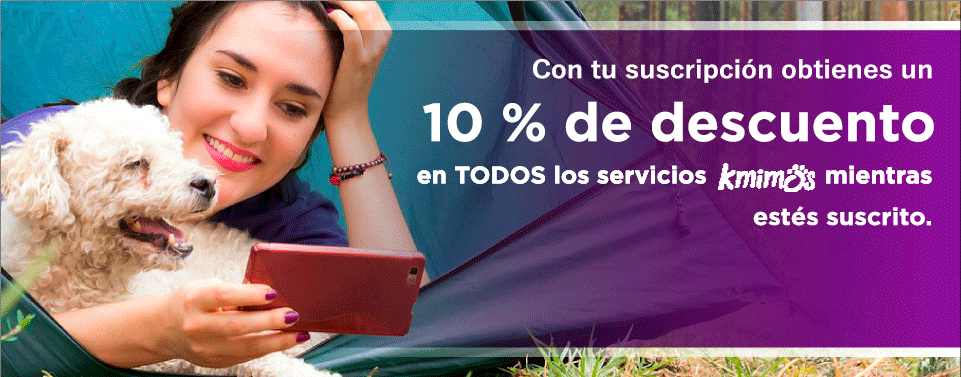
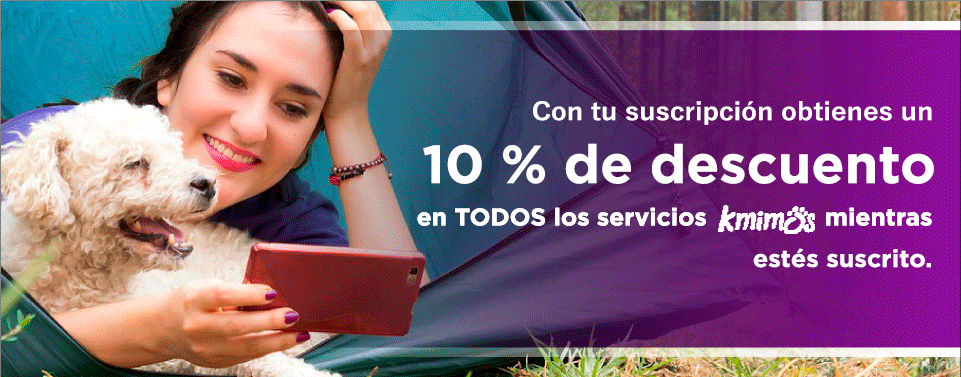
cambio de estilo footer email

Changed region(s): [[0.437, 0.2626, 0.999, 0.7294], [0.5307, 0.1459, 0.9677, 0.2334]]

diff --git a/wp-content/themes/kmibox/template/email/generales/footer.php b/wp-content/themes/kmibox/template/email/generales/footer.php
@@ -46,31 +46,20 @@
     					margin-top: 25px;
     					max-width: height: 387px;">
     				<tr>
-						<td style="
-						    width: 100%;
-						    height: 235px;
-						    text-align: right;
-						    padding: 0px 10px;
-						    background-image: url([IMG_PATH]footer/footer_img.png);
-						    background-repeat: no-repeat;
-						    background-size: contain;
-						    position: relative;">
+						<td style="text-align: center;">
+							<img src="[IMG_PATH]footer/footer_img.png" style="width: 100%">
 							<a href="https://www.kmimos.com.mx">
 								<button style="    
 									padding: 15px;
 								    border-radius: 50px;
 								    border: 0px; 
 								    background: #34cec0;
-								    bottom: 65px;
 								    color: #fff!important;
 								    cursor: pointer;
 								    font-size: 25px;
 								    font-weight: bold;
 								    font-family: 'Gotham';
 								    text-decoration: none;
-								    position: absolute;
-								    vertical-align: bottom;
-								    right: 26px;
 								    ">SOLICITAR CUPÓN</button>
 							</a>
 						</td>
@@ -78,7 +67,7 @@
     				<tr>
 						<td id="recuerda" style="
 						        width: 100%;
-							    font-size: 19px;
+							    font-size: 17.5px;
 							    line-height: 30px;
 							    text-align: justify;
 							    
